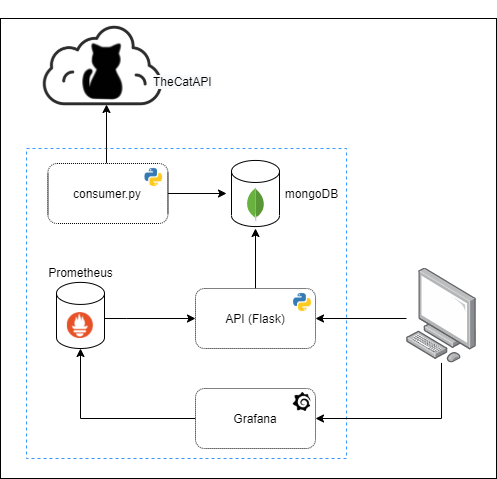
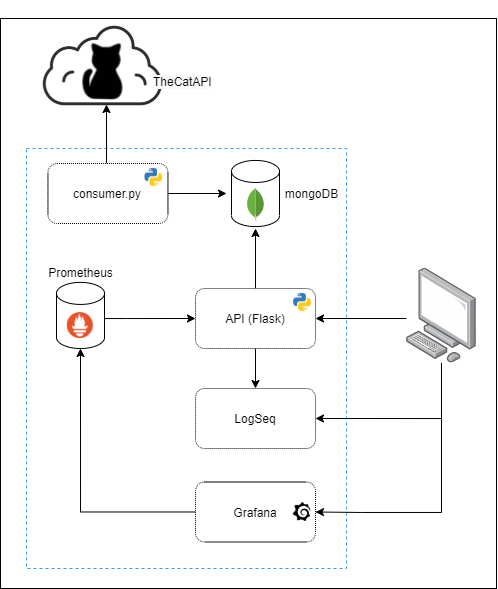
final

diff --git a/README.md b/README.md
@@ -2,38 +2,59 @@ Cats API
 =============
 Documentação do projeto
 -----------------------
+- Para criação da API, foi utilizado Python com o framework Flask.
+
+- Para consumir e guardar as informações do TheCatAPI, foi utilizado a stack Python + mongoDB.
+
+- Para a monitoria de performance da API, foi utilizado o Grafana e Prometheus com uma lib do python chamada prometheus_flask_exporter. A lib expoe um endpoint (/metrics) na API, que é consumido pelo prometheus. Dessa forma o Grafana cria os gráficos baseado nessas informações gravadas no prometheus.
+
+- Para a monitoria dos logs da API, foi utilizado o LogSeq com a lib seqlog que envia informações da API para o LogSeq. 
 ![Imagem da arquitetura](imgs/diagrama.png)
 
 
 Documentação da API
 -------------------
-![Imagem da documentação da API](imgs/apis.png)
+- API capaz de listar todas as raças [GET]
+```
+http://localhost/breeds
+```
 
-_importar as collections do postman para testar as APIs_
+- API capaz de listar as informações de uma raça [GET]
+```
+http://localhost/breed/<filter>
+```
+
+- API capaz de a partir de um temperamento listar as raças [GET]
+```
+http://localhost/breeds/temperament/<filter>
+```
+
+- API capaz de a partir de uma origem listar as raças [GET]
+```
+http://localhost/breeds/origin/<filter>
+```
+
+_importar as collections do postman para testar as APIs (Cats.postman_collection.json)_
 
 
 Instalação
 ----------
-- Instale o docker e o docker-compose
-- Clone o projeto, entre na pasta raiz (onde o arquivo docker-compose.yml se encontra) e rode o seguinte comando:
+- [Pré-Req] Instale o docker e o docker-compose
+- Clone o projeto, entre na pasta raiz (onde o arquivo docker-compose.yml se encontra) e rode o seguinte comando
 ```
 docker compose up -d
-```
-- Caso ocorra o seguinte erro:
-```
- => ERROR [prometheus 1/1] FROM docker.io/prom/prometheus:v2.2
- > [prometheus 1/1] FROM docker.io/prom/prometheus:v2.2.1
-failed to solve: rpc error: code = Unknown desc = failed to load cache key: invalid empty config file resolved for docker.io/prom/prometheus:v2.2
-```
-
-- Rode o seguinte comando e tente novamente
-```
-docker pull prom/prometheus:v2.2.1
 ```
 
 Dashboard
 ---------
+- Grafana com as métricas da API
 ![Imagem do Grafana](imgs/grafana.png)
 _clique na imagem para aumentar_
+
+---------------------------
+- Seqlog com os logs da API
 ![Imagem do seq](imgs/log.png)
+
+---------------------------
+- Gráfico do grafana mostrando os erros do seqlog forçados pelo endpoint /error
 ![Imagem do grafana error](imgs/grafana500.png)
